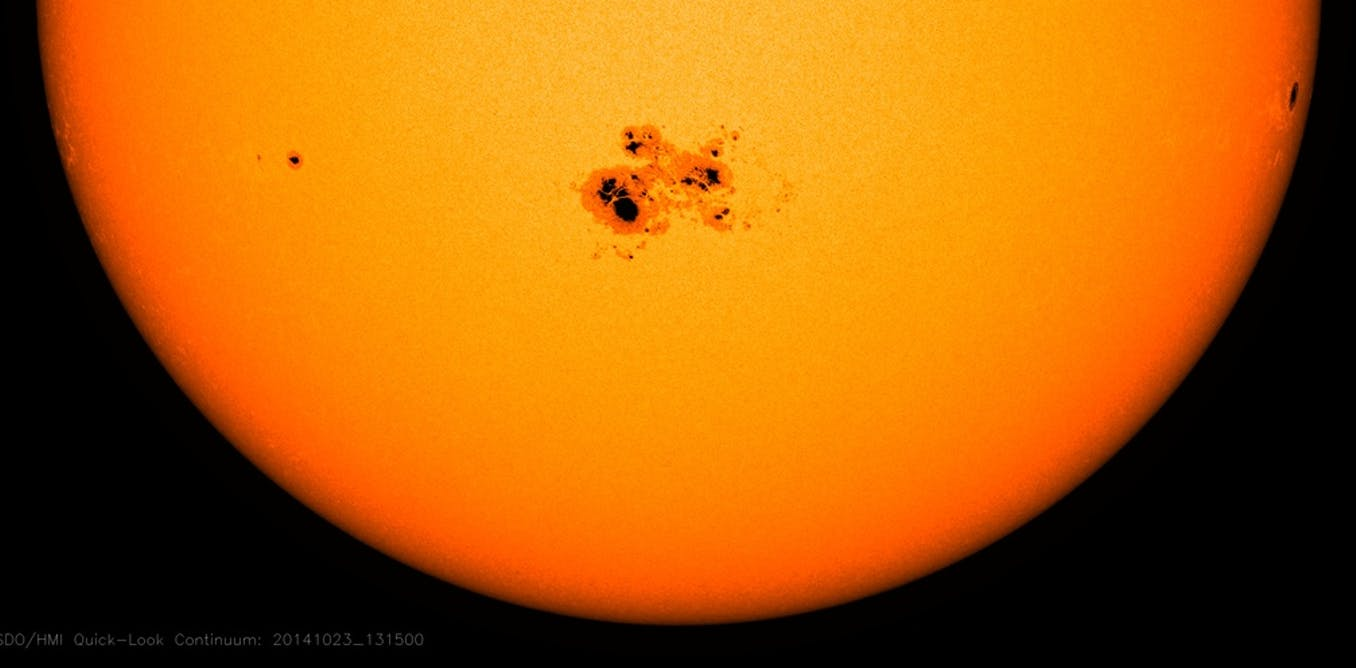
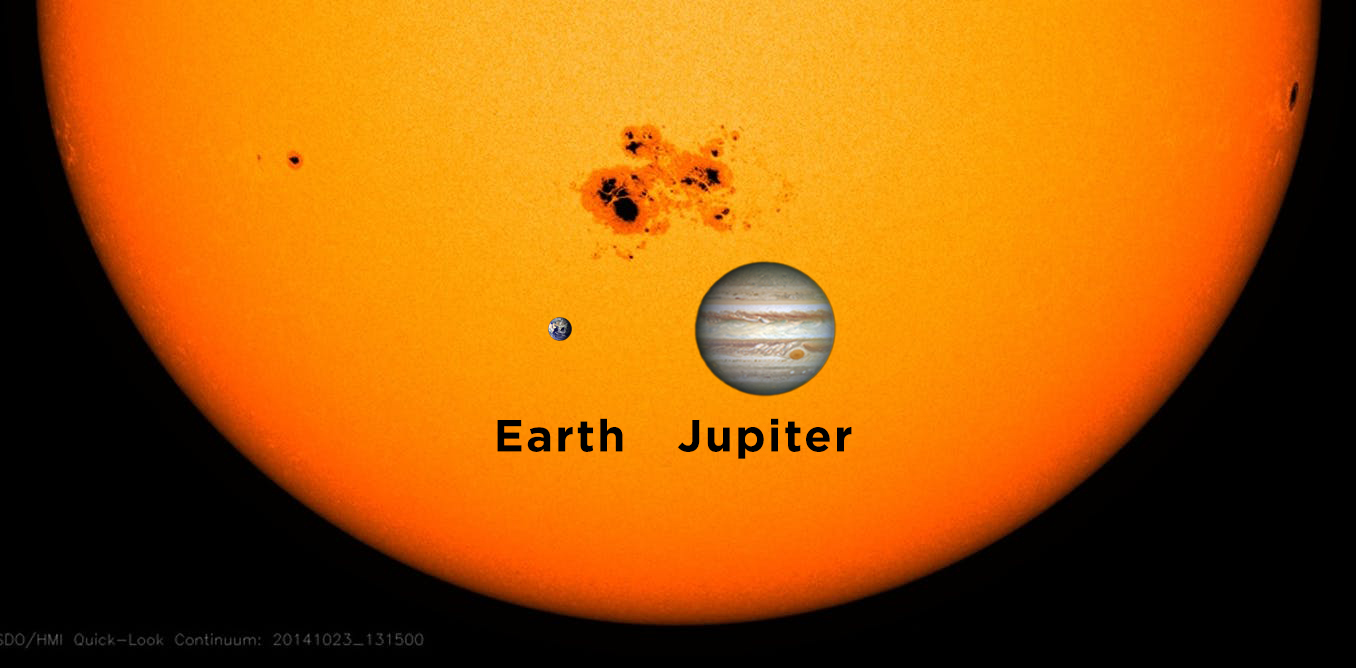
added introduction to SOTA and a new pic

diff --git a/capitolo2.tex b/capitolo2.tex
@@ -46,7 +46,7 @@ Convection is the transfer of heat from one place to another by the movement of 
     \caption{Relative size of AR12192, the Earth and Jupiter}
     \label{fig:AR12192-comp}
 \end{figure}
-Another interesting feature of the dynamics of the Sun is its rotation. In fact the sun does not rotate uniformly, since it is not a rigid object (a solid body in which deformation is zero or very small). Our star is composed of gasses in the form of plasma and therefore the relative movement of its inner particles cannot be neglected. This results in a type of motion called differential rotation. It has been observed that the angular velocity of the particles changes in a way that depends on the latitude, in particular it is fastest on the solar equator and decreases as latitude increases \cite{diffrot}. From this notion follows that the rotation period is not constant, it takes 24.47 days at the equator and almost 38 days at the poles \cite{diffrotrev}. Furthermore this behaviour has a critical importance for the understanding of this work for two reasons. First, the features that we studied are located on the photosphere and move with the surface of the Sun, undergoing significant deformation. Second, differential rotation together with convective turbulent motions leads to the generation of electric currents and solar magnetic field. This phenomenon is called solar dynamo and is in some way similar to the dynamo effect that generates the magnetic field of the Earth. Moreover the generated magnetic field has the property that it tends to agglomerate into bundles called magnetic flux tubes. When these tubes become strong enough to locally inhibit convection the heat coming from inside the Sun is not propagated upwards and the temperature of the surface decreases significantly. The local temperature drop makes the affected area look darker than the rest of the disk. These black patches, commonly named \textbf{sunspots}, can become very large and thus fairly easy to observe, even with amateur instrumentation. Their average size is comparable to the one of the Earth, but in some cases, when the magnetic perturbation is very strong, they can reach approximately the size of Jupiter or even more, as in the case of AR12192 (Figure~\ref{fig:AR12192-comp}, Figure~\ref{fig:AR12192-comp}), the largest group of the last solar cycle. Also, it has been shown that, since they indicate intense magnetic activity, sunspots accompany secondary phenomena such as coronal loops, prominences, flares and coronal mass ejections. For this reasons they have been widely observered and studied during the last 400 years. Since the invention of the telescope \cite{king2003history} (early XVII Century) many astronomers started to notice these dark features, although they weren't quite sure about their causes. Some thought they were shadows of undiscovered planets crossing the Sun, while others believed them to be dark clouds in the Sun's atmosphere. In 1843 an amateur German astronomer named Samuel Schwabe discovered the rise and fall of yearly sunspot counts we now call the solar cycle \cite{schwabe1843solar}. Nowadays we actually know that, more in general, the solar cycle is the nearly periodic 11-year change in the Sun's activity that encompasses a multitude of phenomena, as, for example, the variable levels of solar radiation and ejection of solar material. As already discussed, the change in magnitude of the activity of our star is also visible on the Earth; for instance large geomagnetic storms leading to auroras are most common during the peak of the cycle. Soon after, in 1848, Rudolf Wolf established a relative sunspot number formulation to compare the work of different astronomers using varying equipment and methodologies, known as the Wolf (or Z\"{u}rich) sunspot number \cite{vaquero2007historical}. Such definition is still in used today. Wolf succeeded in reliably reconstructing the variations in sunspot number as far as the 1755--1766 cycle, which has since been known conventionally as \textit{Cycle 1}, with all subsequent cycles numbered consecutively thereafter; at the time of writing (early 2019), we are in the final phase of \textit{Cycle 24}, although the first sunspot of \textit{Cycle 25} may have appeared in early April 2018 \cite{cycle25-1}\cite{cycle25-2} or even December 2016 \cite{cycle25-3}. Using Figure~\ref{fig:SILSO2} and Figure~\ref{fig:ssarea} the reader himself can verify that the trend is indeed periodic. Moreover the graphics highlights peaks and valleys; a peak in the sunspot count is referred to as a time of \textit{solar maximum}, whereas a valley, a period when just few sunspots appear is called a \textit{solar minimum}.
+Another interesting feature of the dynamics of the Sun is its rotation. In fact the sun does not rotate uniformly, since it is not a rigid object (a solid body in which deformation is zero or very small). Our star is composed of gasses in the form of plasma and therefore the relative movement of its inner particles cannot be neglected. This results in a type of motion called differential rotation. It has been observed that the angular velocity of the particles changes in a way that depends on the latitude, in particular it is fastest on the solar equator and decreases as latitude increases \cite{diffrot}. From this notion follows that the rotation period is not constant, it takes 24.47 days at the equator and almost 38 days at the poles \cite{diffrotrev}. Furthermore this behaviour has a critical importance for the understanding of this work for two reasons. First, the features that we studied are located on the photosphere and move with the surface of the Sun, undergoing significant deformation. Second, differential rotation together with convective turbulent motions leads to the generation of electric currents and solar magnetic field. This phenomenon is called solar dynamo and is in some way similar to the dynamo effect that generates the magnetic field of the Earth. Moreover the generated magnetic field has the property that it tends to agglomerate into bundles called magnetic flux tubes. When these tubes become strong enough to locally inhibit convection the heat coming from inside the Sun is not propagated upwards and the temperature of the surface decreases significantly. The local temperature drop makes the affected area look darker than the rest of the disk. These black patches, commonly named \textbf{sunspots}, can become very large and thus fairly easy to observe, even with amateur instrumentation. Their average size is comparable to the one of the Earth, but in some cases, when the magnetic perturbation is very strong, they can reach approximately the size of Jupiter or even more, as in the case of AR12192 (Figure~\ref{fig:AR12192-comp}), the largest group of the last solar cycle. As shown in the figure the intensity gap is not uniform, the darkest areas (\textit{umbrae}) originate if the magnetic field is perpendicular to the surface, while on the periphery of the magnetic tube the field is slightly inclined and results in a lighter color. while  Also, it has been shown that, since they indicate intense magnetic activity, sunspots accompany secondary phenomena such as coronal loops, prominences, flares and coronal mass ejections. For this reasons they have been widely observered and studied during the last 400 years. Since the invention of the telescope \cite{king2003history} (early XVII Century) many astronomers started to notice these dark features, although they weren't quite sure about their causes. Some thought they were shadows of undiscovered planets crossing the Sun, while others believed them to be dark clouds in the Sun's atmosphere. In 1843 an amateur German astronomer named Samuel Schwabe discovered the rise and fall of yearly sunspot counts we now call the solar cycle \cite{schwabe1843solar}. Nowadays we actually know that, more in general, the solar cycle is the nearly periodic 11-year change in the Sun's activity that encompasses a multitude of phenomena, as, for example, the variable levels of solar radiation and ejection of solar material. As already discussed, the change in magnitude of the activity of our star is also visible on the Earth; for instance large geomagnetic storms leading to auroras are most common during the peak of the cycle. Soon after, in 1848, Rudolf Wolf established a relative sunspot number formulation to compare the work of different astronomers using varying equipment and methodologies, known as the Wolf (or Z\"{u}rich) sunspot number \cite{vaquero2007historical}. Such definition is still in used today. Wolf succeeded in reliably reconstructing the variations in sunspot number as far as the 1755--1766 cycle, which has since been known conventionally as \textit{Cycle 1}, with all subsequent cycles numbered consecutively thereafter; at the time of writing (early 2019), we are in the final phase of \textit{Cycle 24}, although the first sunspot of \textit{Cycle 25} may have appeared in early April 2018 \cite{cycle25-1}\cite{cycle25-2} or even December 2016 \cite{cycle25-3}. Using Figure~\ref{fig:SILSO2} and Figure~\ref{fig:ssarea} the reader himself can verify that the trend is indeed periodic. Moreover the graphics highlights peaks and valleys; a peak in the sunspot count is referred to as a time of \textit{solar maximum}, whereas a valley, a period when just few sunspots appear is called a \textit{solar minimum}.
 \begin{figure}[t]
     \centering
     \includegraphics[width=\textwidth]{./pictures/SILSO2}
@@ -66,7 +66,7 @@ Focusing on Figure~\ref{fig:butterfly}, instead we can discover another peculiar
     \caption{Butterfly diagram showing paired position and area of sunspots}
     \label{fig:butterfly}
 \end{figure}
-The last notion we need to introduce in order for the reader to fully understand this work is sunspot classification. Several different categorization paradigms have been introduced during the years but the one that is most popular nowadays is the \textit{McIntosh classification}, introduced in 1990 \cite{mcintosh1990classification}. The McIntosh classification is constituted by three components, in which the nomenclature used for each sunspot group type is \textbf{Zpc}, where Z corresponds to \textit{Modified Z\"{u}rich Classification}, and the other two components, p and c, reflect the main sunspot characteristics: the type, size, and symmetry of the penumbra and umbra; and the degree of compactness of the group \cite{carrasco2015equivalence}. We will focus on the \textbf{Z} component, that divides the spots in the following categories\cite{}:
+The last notion we need to introduce in order for the reader to fully understand this work is sunspot classification. Several different categorization paradigms have been introduced during the years but the one that is most popular nowadays is the \textit{McIntosh classification}, introduced in 1990 \cite{mcintosh1990classification}. The McIntosh classification is constituted by three components, in which the nomenclature used for each sunspot group type is \textbf{Zpc}, where Z corresponds to \textit{Modified Z\"{u}rich Classification}, and the other two components, p and c, reflect the main sunspot characteristics: the type, size, and symmetry of the penumbra and umbra; and the degree of compactness of the group \cite{carrasco2015equivalence}. We will focus on the \textbf{Z} component, that partitions the spots in the following categories\cite{silso-class}:
 \begin{itemize}
   \item \textbf{A}: a small single unipolar sunspot. Representing either the formative or final stage of evolution;
   \item \textbf{B}: a bipolar sunspot group with no penumbra on any of the spots;

diff --git a/capitolo3.tex b/capitolo3.tex
@@ -1,3 +1,23 @@
-\chapter{Impostazione del problema di ricerca}
+\chapter{State of the Art}
 \label{capitolo3}
 \thispagestyle{empty}
+
+\noindent In this chapter the main challenges of automatic sunspot detection are analysed and several state of the art algorithms that overcome those challenges are presented, together with an explanation of their advantages and disadvantages. Also, the reader will understand the reason why being able to automatically segment and group images of the Sun is so critically important. Manually drawing the contours of dark patches with white background can look trivial to the inexperienced eye but centuries of disagreements among scientist on that matter demonstrated that this is actually not the case. In fact, irregularities in the shape of the sunspots and their variable intensity and contrast with the surroundings, make their automated detection from digital images difficult \cite{curto2008automatic}. Similarly, automatically clustering sunspots into groups, taking into account the properties of magnetic field, has revealed itself to be a rather complex task. In the past, given the moderate quantity of data available to the scientists, it was quite easy to label all the images. During the years technological development progressively enhanced the quality datasets at our disposal. From December 1995, when the SOHO mission was launched, the Sun has been under almost constant human surveillance from space. Since then, the space telescope has delivered a daily stream of 250MB of solar data back to researchers on Earth. With 12 instruments on board, probing every area of our star - from its interior out to the corona and the solar wind - SOHO has compiled a vast library of solar data. This solar work of art is beginning to be complemented by SDO, which is returning 1.5TB of data per day. At 6000 times the data rate of SOHO, and containing a constant stream of high-resolution images of the Sun over 10 spectral channels, the volume of data from SDO has made it necessary to develop new ways of analysing the data \cite{esa-soho}. \\
+In the early stages of the development of this thesis traditional image processing appraches have been explored in order to tackle sunspot detection. Unfortunately methods like edge detection \cite{canny1987computational}, or simple segmentation algorithms like watershed transform \cite{beucher1992watershed} or histogram clustering \cite{puzicha1999histogram} are simply not powerful enough to yield acceptable performance on this task. On one hand both edge detection and watershed fail badly, tending to get confused by the noise introduced by convection cells, and ending up overdetecting. Hyperparameter tuning can possibly help in many cases but it is impossible to find the right values in order for the methods to generalize on unseen images. Even selecting ad-hoc parameters the detection performances remain very poor. Such a strong evidence testifies that the above-mentioned approaches are not suitable solutions to the problem this work aims to tackle. On the other hand, even though histogram clustering is a very na\"{i}ve approach and yields poor performance on the general segmentation task, later on in this thesis it will be shown that very simple clustering algorithms are able to distinguish umbrae from penumbrae given the mask of the selected sunspot and its classification.\\ \\
+QUESTA PARTE \'{E} SOLO UNA BOZZA \\ \\
+During the last decade more complex algorithms have emerged:
+\begin{itemize}
+  \item \textbf{SMART} \cite{higgins2011solar}:
+  \item \textbf{ASAP} \cite{colak2009automated}:
+  \item \textbf{STARA} \cite{watson2009modelling}:
+  \item \textbf{SPoCA} \cite{barra2009fast}:
+\end{itemize}
+Another related algorithm SOTA, uses deep learning:
+\begin{itemize}
+  \item \textbf{FlareNet} \cite{McGregor2017}:
+\end{itemize} 
+Finally something on group classification:
+\begin{itemize}
+  \item \textbf{decision trees, rough sets, hierarchical clustering} \cite{nguyen2006learning}:
+  \item \textbf{decision rules, decision trees} \cite{colak2007automatic}
+\end{itemize}

diff --git a/frontespizio.tex b/frontespizio.tex
@@ -17,7 +17,7 @@
 
 
 
-  \textbf{SUNSPOTIFY: A DEEP LEARNING APPROACH TO SUNSPOT DETECTION}\\
+  \textbf{A DEEP LEARNING APPROACH TO SUNSPOT DETECTION}\\
 
 
 
@@ -38,7 +38,7 @@
 \begin{flushright}
 
 
-  Tesi di Laurea di:\\ Enrico Fini, matricola 860761\\ 
+  Tesi di Laurea di:\\ Enrico Fini, matricola 860761\\
 
 
 \end{flushright}
